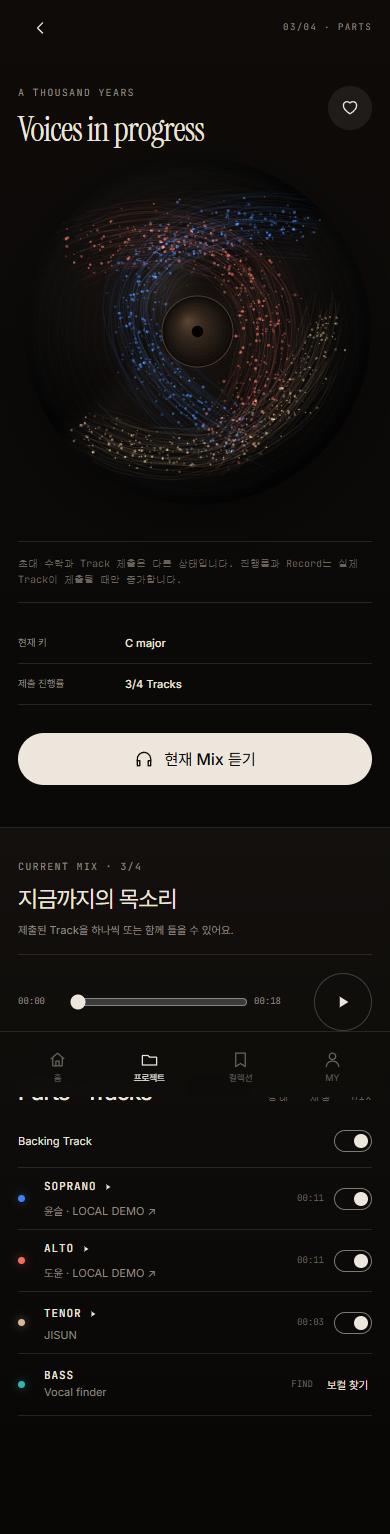
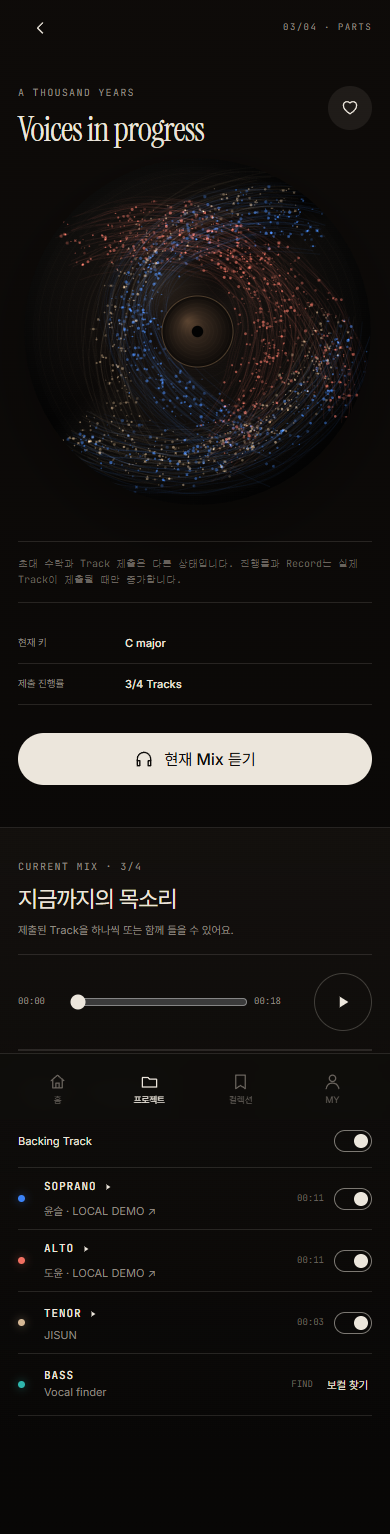
Trace reference with branching particle ribbons

diff --git a/src/App.jsx b/src/App.jsx
@@ -216,15 +216,27 @@ function ResonanceRecord({ active = [true, false, true, false], layers = [], act
           const turbulence=Math.max(.2,Math.min(1.4,Number(layer.turbulence??.72)))
           const live=layerIndex===activePartIndex?liveAmount:0
           const flowPaths=[
-            [[.9,-.58],[-.42,-1.02],[-1.02,.18],[.54,.86]],
-            [[-.92,-.48],[.28,-1.04],[1.02,.02],[-.06,.9]],
-            [[-.86,.52],[-.38,1.02],[.76,.94],[.92,-.26]],
-            [[.68,.92],[1.05,.16],[.45,-.92],[-.62,-.78]]
+            [
+              [[.94,-.62],[-.42,-1.04],[-1.04,.18],[.56,.88]],
+              [[-.9,.58],[-.28,1.05],[.92,.82],[.98,-.18]]
+            ],
+            [
+              [[-.94,-.5],[.3,-1.06],[1.05,.02],[-.08,.92]],
+              [[.88,.72],[1.04,-.2],[.16,-.94],[-.74,-.58]]
+            ],
+            [
+              [[-.9,.56],[-.4,1.05],[.8,.96],[.94,-.3]],
+              [[.8,-.84],[-.16,-1.04],[-.98,-.2],[-.34,.82]]
+            ],
+            [
+              [[.7,.94],[1.08,.18],[.46,-.96],[-.66,-.8]],
+              [[-.9,-.12],[-.72,.92],[.58,1.02],[.94,.16]]
+            ]
           ]
-          const controls=flowPaths[layerIndex]
           const projectRotation=((numericSeed%37)/37-.5)*.14,rotationCos=Math.cos(projectRotation),rotationSin=Math.sin(projectRotation)
-          const strandCount=Math.round(38+energy*28+live*12)
-          const pointOnFlow=(t,offset,wobble=0)=>{
+          const strandCount=Math.round(50+energy*34+live*14)
+          const pointOnFlow=(t,offset,wobble=0,branch=0)=>{
+            const controls=flowPaths[layerIndex][branch%2]
             const u=1-t,u2=u*u,t2=t*t
             let x=u2*u*controls[0][0]+3*u2*t*controls[1][0]+3*u*t2*controls[2][0]+t2*t*controls[3][0]
             let y=u2*u*controls[0][1]+3*u2*t*controls[1][1]+3*u*t2*controls[2][1]+t2*t*controls[3][1]
@@ -244,20 +256,21 @@ function ResonanceRecord({ active = [true, false, true, false], layers = [], act
             const normalized=(strand/(strandCount-1)-.5)
             const offset=normalized*spread*3.2+(random()-.5)*spread*.5
             const start=.02+random()*.13,end=.82+random()*.17,wobble=random()*Math.PI*2
+            const branch=strand%5<2?1:0
             ctx.beginPath()
             for(let step=0;step<=54;step++){
-              const t=start+(end-start)*(step/54),point=pointOnFlow(t,offset,wobble)
+              const t=start+(end-start)*(step/54),point=pointOnFlow(t,offset,wobble,branch)
               if(step===0)ctx.moveTo(point[0],point[1]);else ctx.lineTo(point[0],point[1])
             }
             const prominence=.018+Math.pow(1-Math.abs(normalized),2)*(.045+energy*.045)+random()*.018
             ctx.strokeStyle=`rgba(${color[0]},${color[1]},${color[2]},${prominence*(1+live*.65)})`
             ctx.lineWidth=ratio*(.28+random()*.62+energy*.22);ctx.stroke()
           }
-          const particleCount=Math.round(230+energy*260+live*100)
+          const particleCount=Math.round(360+energy*360+live*120)
           for(let particle=0;particle<particleCount;particle++){
             const t=Math.pow(random(),.92)*.92+.025
             const clustered=((random()+random()+random())/3-.5)*spread*3.9
-            const point=pointOnFlow(t,clustered,random()*6.283)
+            const point=pointOnFlow(t,clustered,random()*6.283,random()<.38?1:0)
             const flicker=.22+random()*.78,sizeDot=ratio*(.32+random()*(.72+energy*.64+live*.25))
             ctx.beginPath();ctx.arc(point[0],point[1],sizeDot,0,Math.PI*2)
             ctx.fillStyle=`rgba(${color[0]},${color[1]},${color[2]},${(.08+flicker*.5)*(1+live*.55)})`;ctx.fill()
